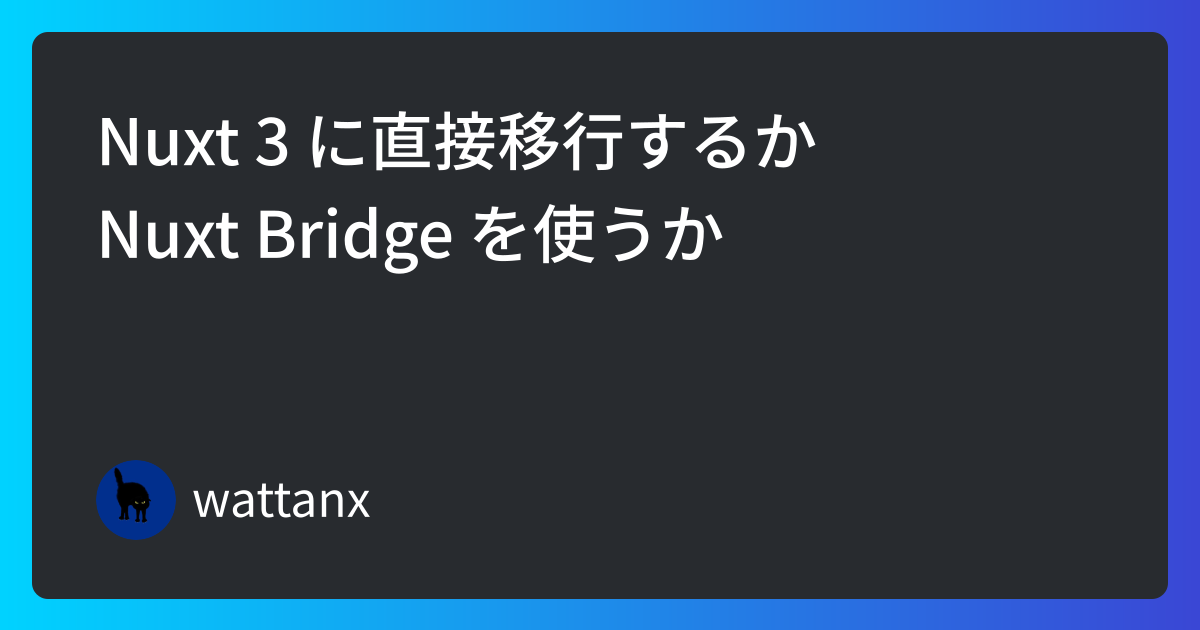
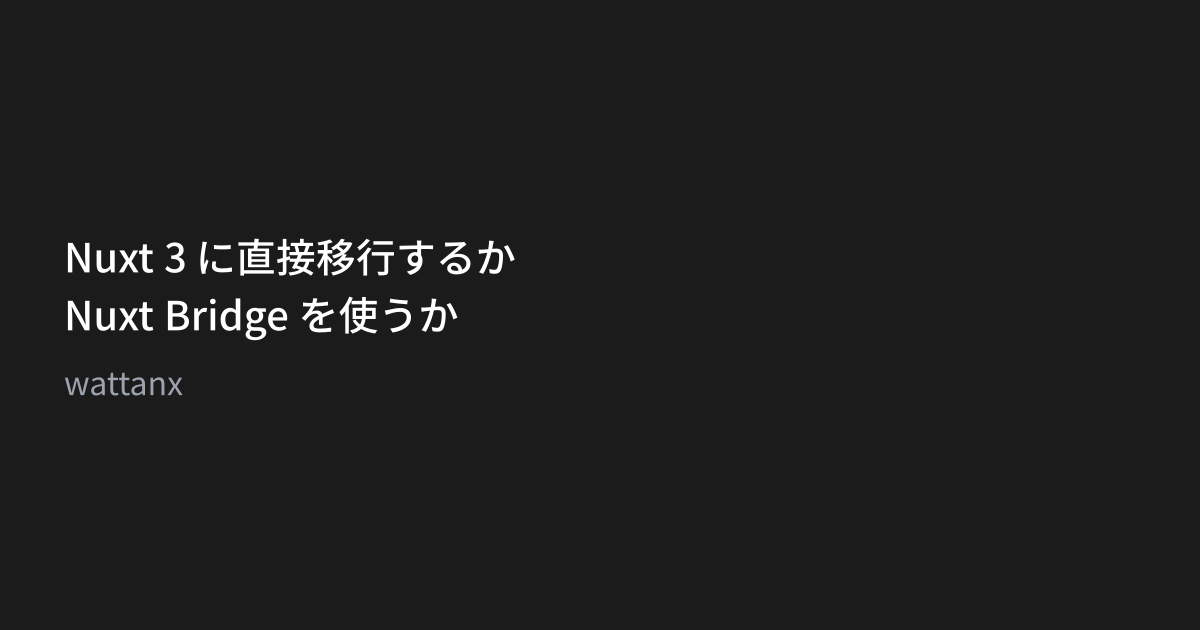
refactor: update style blog (#49)
* fix: fix color

* refactor: fix og image style

diff --git a/scripts/ogp-generator.tsx b/scripts/ogp-generator.tsx
@@ -22,13 +22,12 @@ const generateOgpImage = async (title: string) => {
         height: "100%",
         width: "100%",
         display: "flex",
-        backgroundImage: "linear-gradient(90deg, #00d2ff 0%, #3a47d5 100%)",
+        backgroundColor: "#fff",
         color: "#fff",
         fontSize: 48,
         fontWeight: 600,
         justifyContent: "center",
         alignItems: "center",
-        padding: "0 2rem",
       }}
     >
       <div
@@ -36,26 +35,26 @@ const generateOgpImage = async (title: string) => {
           display: "flex",
           flexDirection: "column",
           padding: "1rem 4rem",
-          backgroundColor: "#282b2f",
-          justifyContent: "space-between",
-          borderRadius: "1rem",
-          height: "90%",
+          backgroundColor: "#1b1b1b",
+          justifyContent: "center",
+          height: "100%",
           width: "100%",
         }}
       >
-        <p style={{ fontSize: 64, fontWeight: 700, whiteSpace: "pre-wrap" }}>
+        <span style={{ fontSize: 40, fontWeight: 700, whiteSpace: "pre-wrap" }}>
           {title}
-        </p>
+        </span>
 
-        <div style={{ display: "flex", alignItems: "center" }}>
-          <img
-            src="https://avatars.githubusercontent.com/wattanx"
-            width={80}
-            height={80}
-            style={{ borderRadius: "100%" }}
-          />
-          <p style={{ marginLeft: "16px", fontWeight: 400 }}>wattanx</p>
-        </div>
+        <span
+          style={{
+            fontSize: 32,
+            marginTop: "16px",
+            fontWeight: 400,
+            color: "#9CA3AF",
+          }}
+        >
+          wattanx
+        </span>
       </div>
     </div>,
     {
